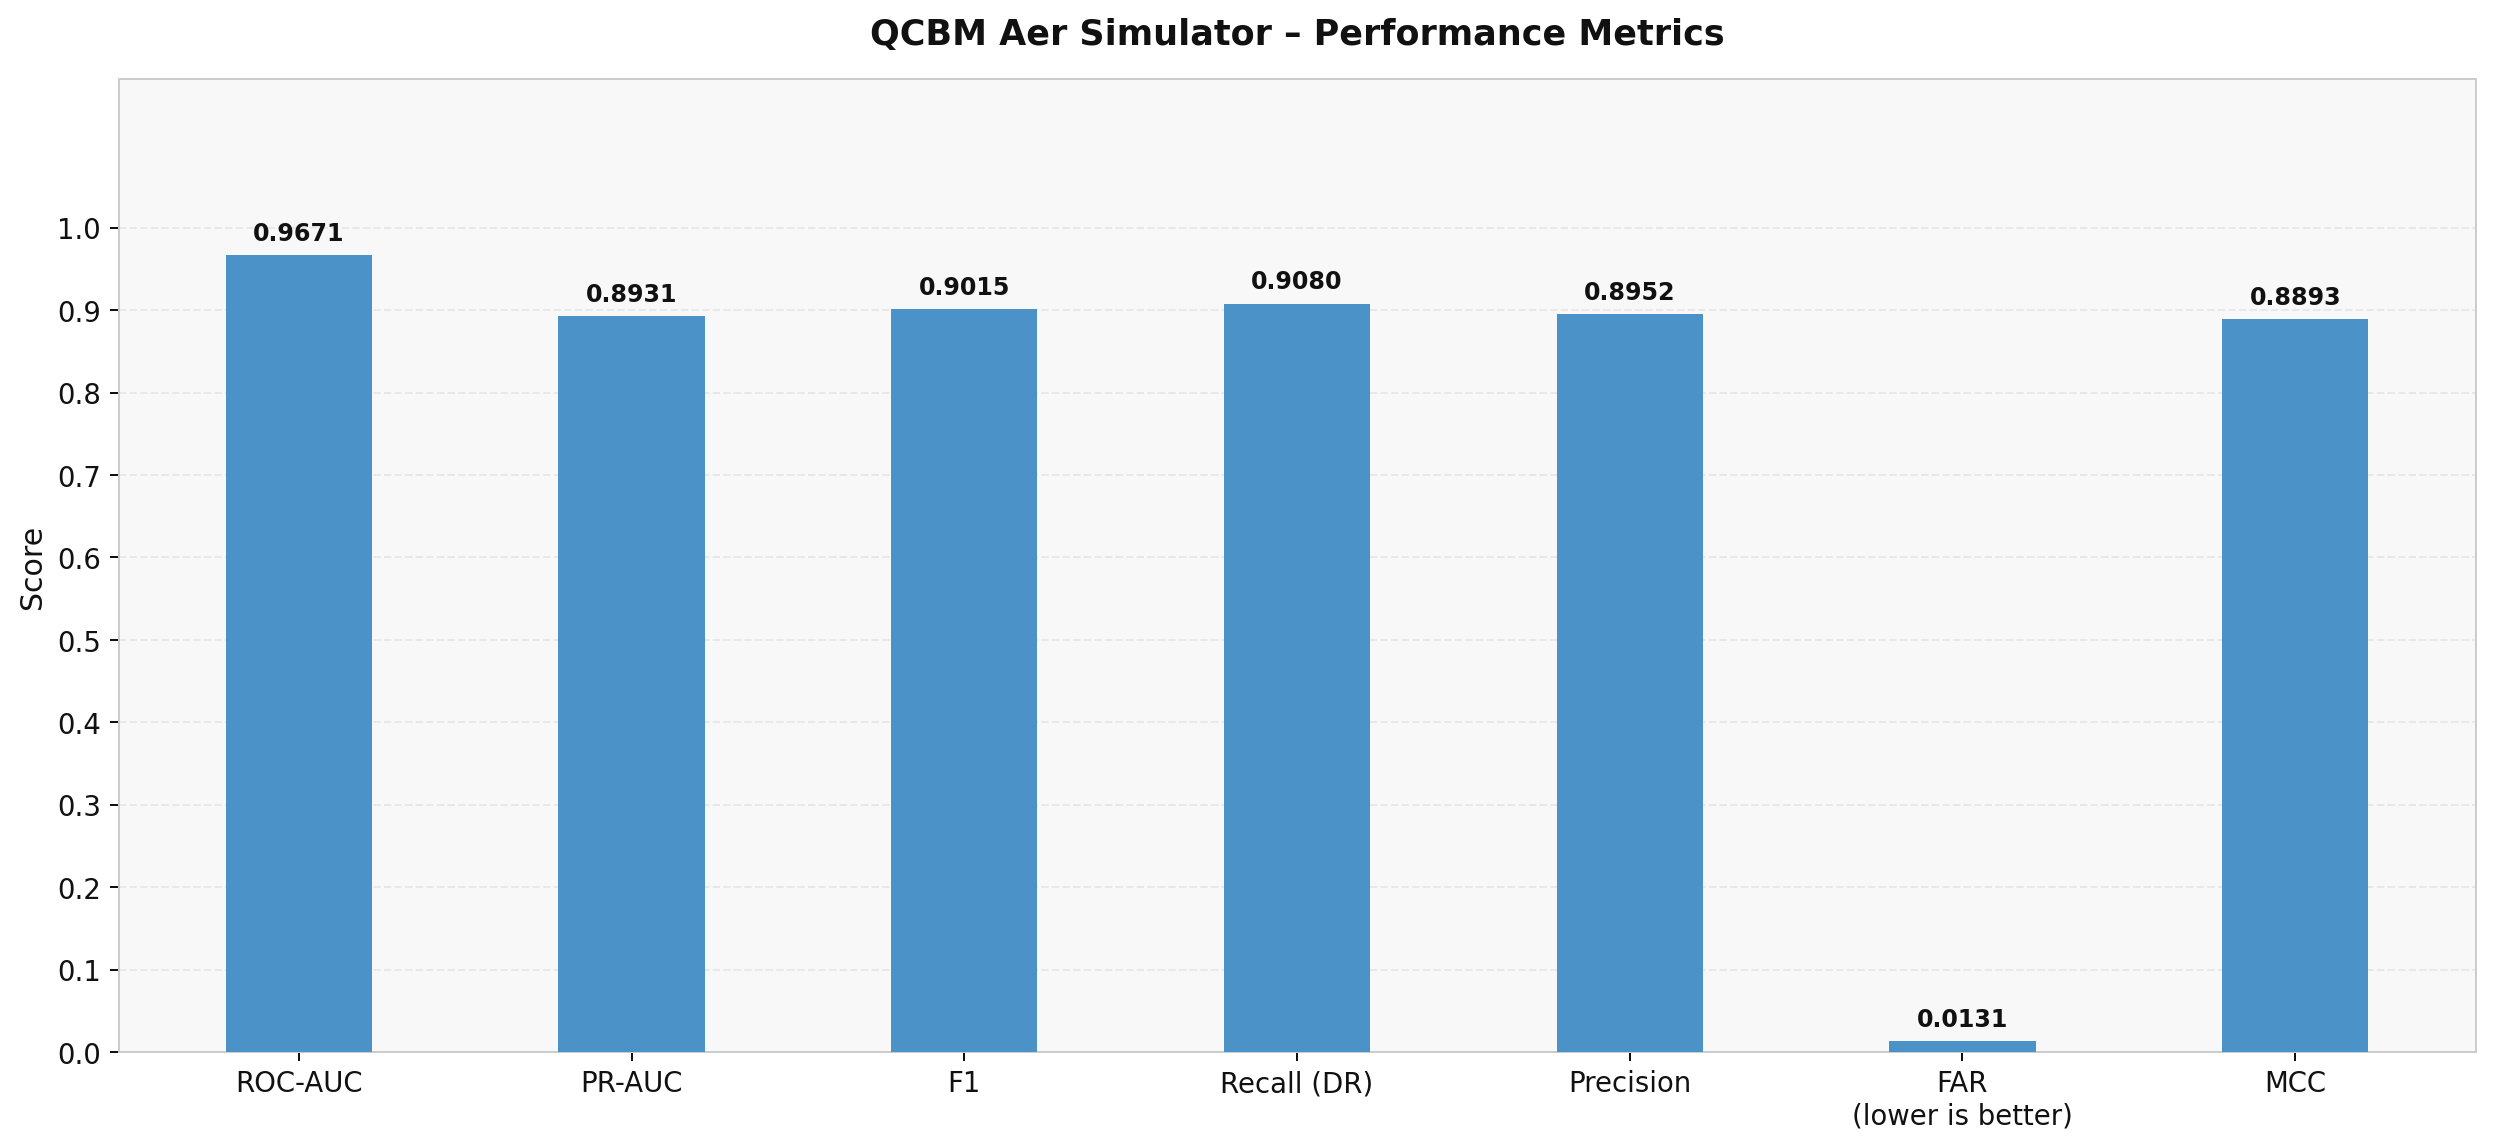
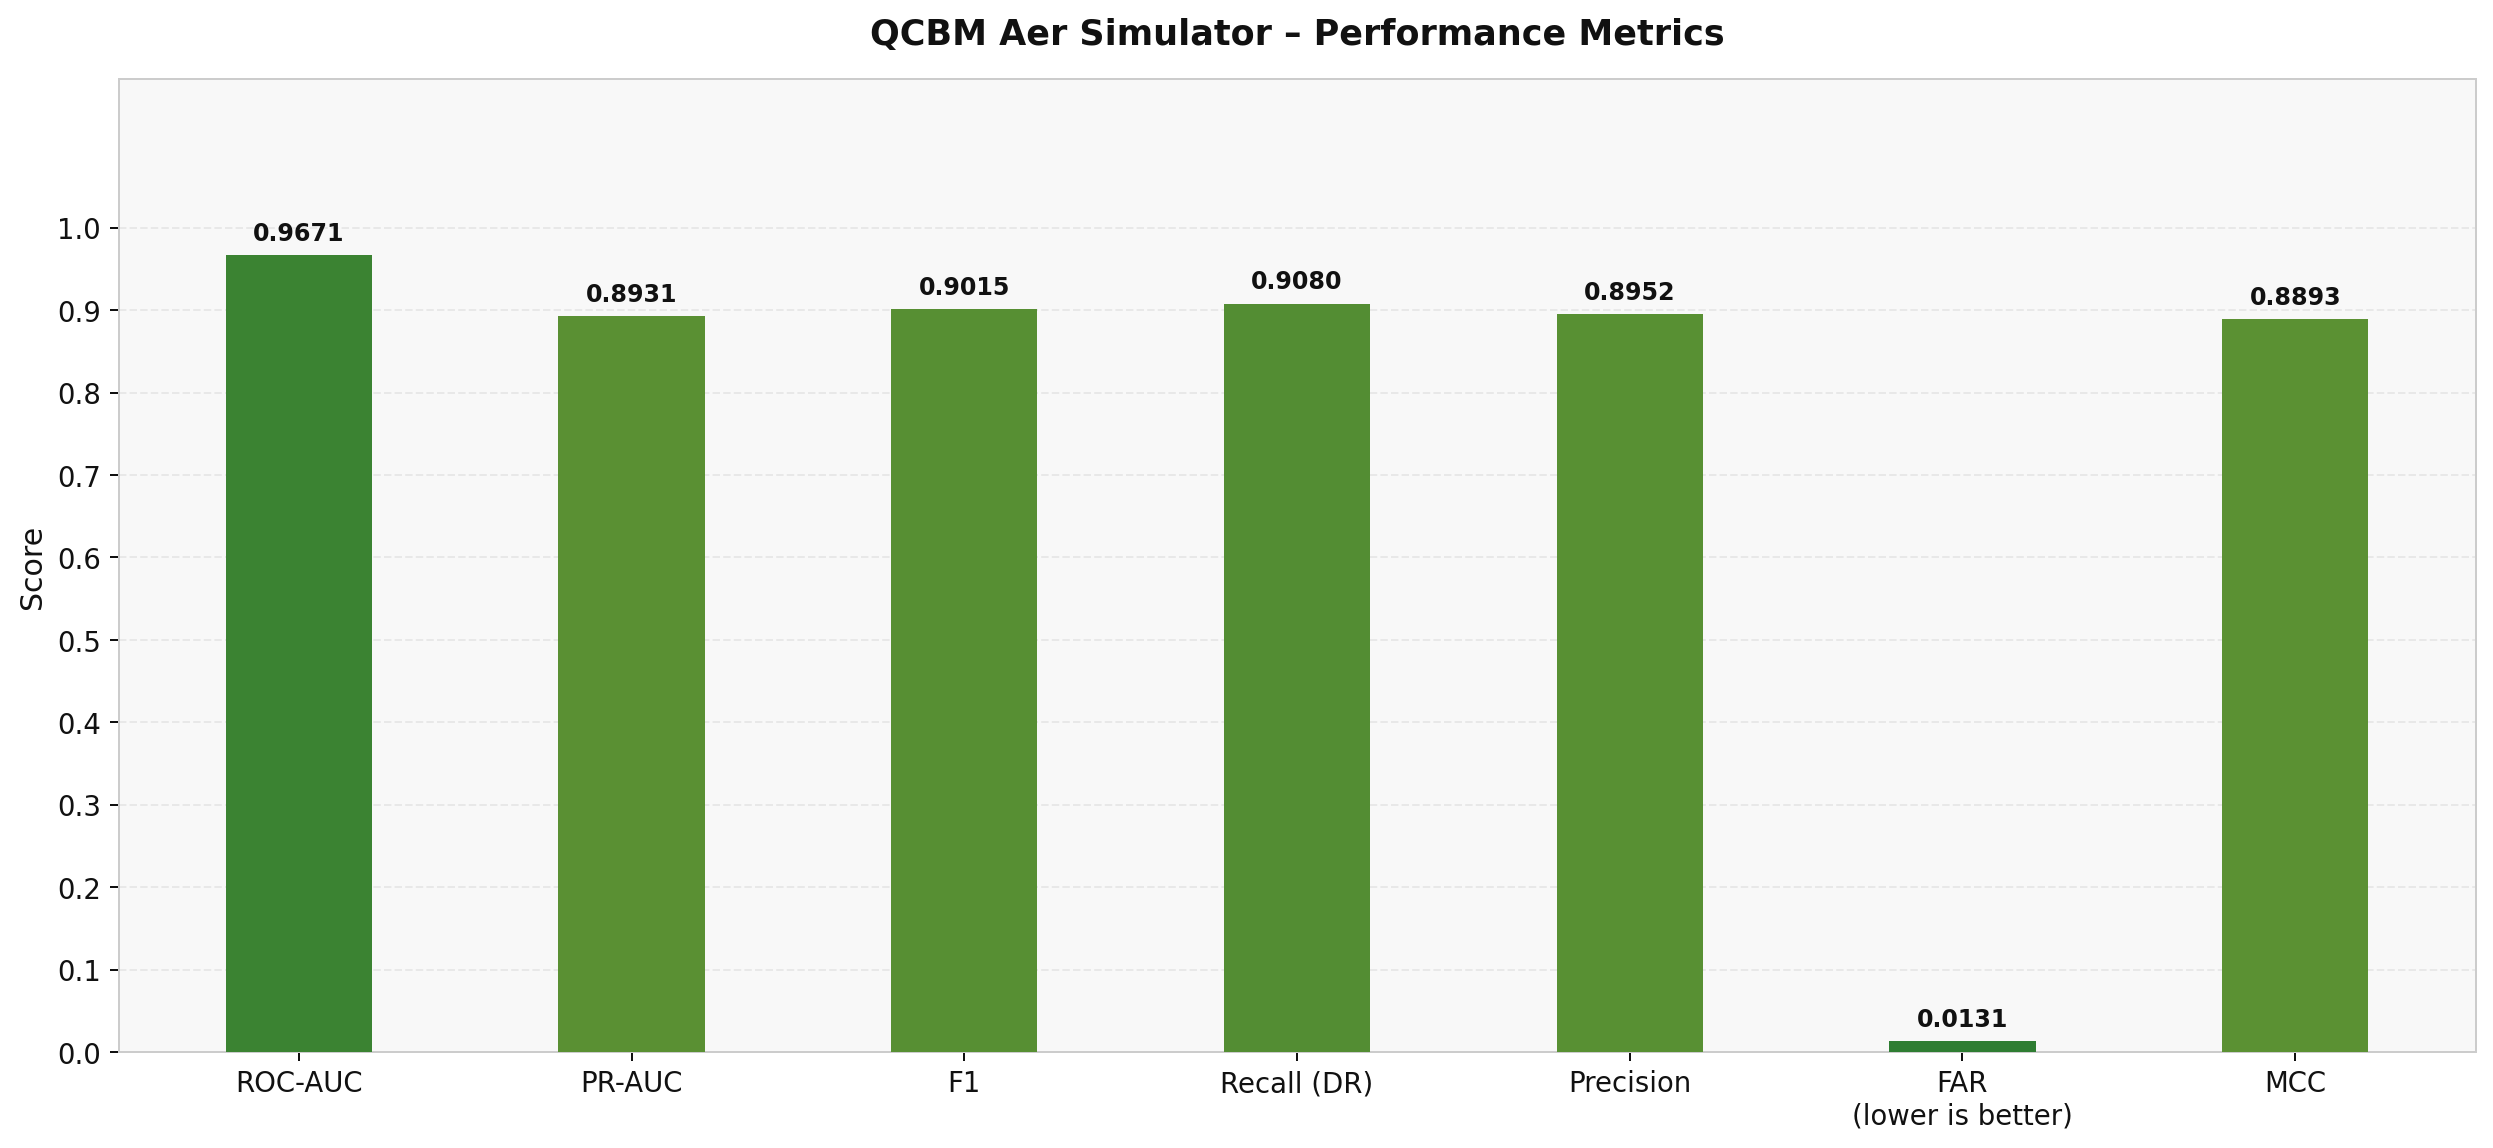
graph change

diff --git a/PRESENTATION GRAPHS/metrics_comparison.py b/PRESENTATION GRAPHS/metrics_comparison.py
@@ -10,7 +10,6 @@ import numpy as np
 import matplotlib
 matplotlib.use("Agg")
 import matplotlib.pyplot as plt
-from matplotlib.patches import FancyArrowPatch
 
 HERE = os.path.dirname(os.path.abspath(__file__))
 
@@ -38,8 +37,19 @@ SUBTEXT = "#555555"
 BORDER  = "#CCCCCC"
 GRIDCOL = "#E8E8E8"
 
-C_SIM = "#4B92C8"   # steel blue  — Aer Simulator
-C_IBM = "#C43B2C"   # dark red    — IBM Hardware
+from matplotlib.colors import LinearSegmentedColormap
+
+# red(0) -> yellow(0.5) -> green(1) gradient for bar colors
+SCORE_CMAP = LinearSegmentedColormap.from_list(
+    "score_grad",
+    ["#D32F2F", "#FDD835", "#2E7D32"],  # red -> yellow -> green
+    N=256,
+)
+
+def bar_color(value, force_green=False):
+    if force_green:
+        return "#2E7D32"
+    return SCORE_CMAP(float(np.clip(value, 0, 1)))
 
 STYLE = {
     "figure.facecolor": BG,     "axes.facecolor":  PANEL,
@@ -63,8 +73,12 @@ def main():
     fig.patch.set_facecolor(BG)
     ax.set_facecolor(PANEL)
 
-    bars_sim = ax.bar(x, SIM_VALS, w + 0.1,
-                      color=C_SIM, label="Aer Simulator",
+    colors = [
+        bar_color(v, force_green=low)
+        for v, low in zip(SIM_VALS, LOW_BETTER)
+    ]
+
+    bars_sim = ax.bar(x, SIM_VALS, w + 0.1, color=colors,
                       zorder=3, clip_on=False)
 
     # value labels on top of each bar
